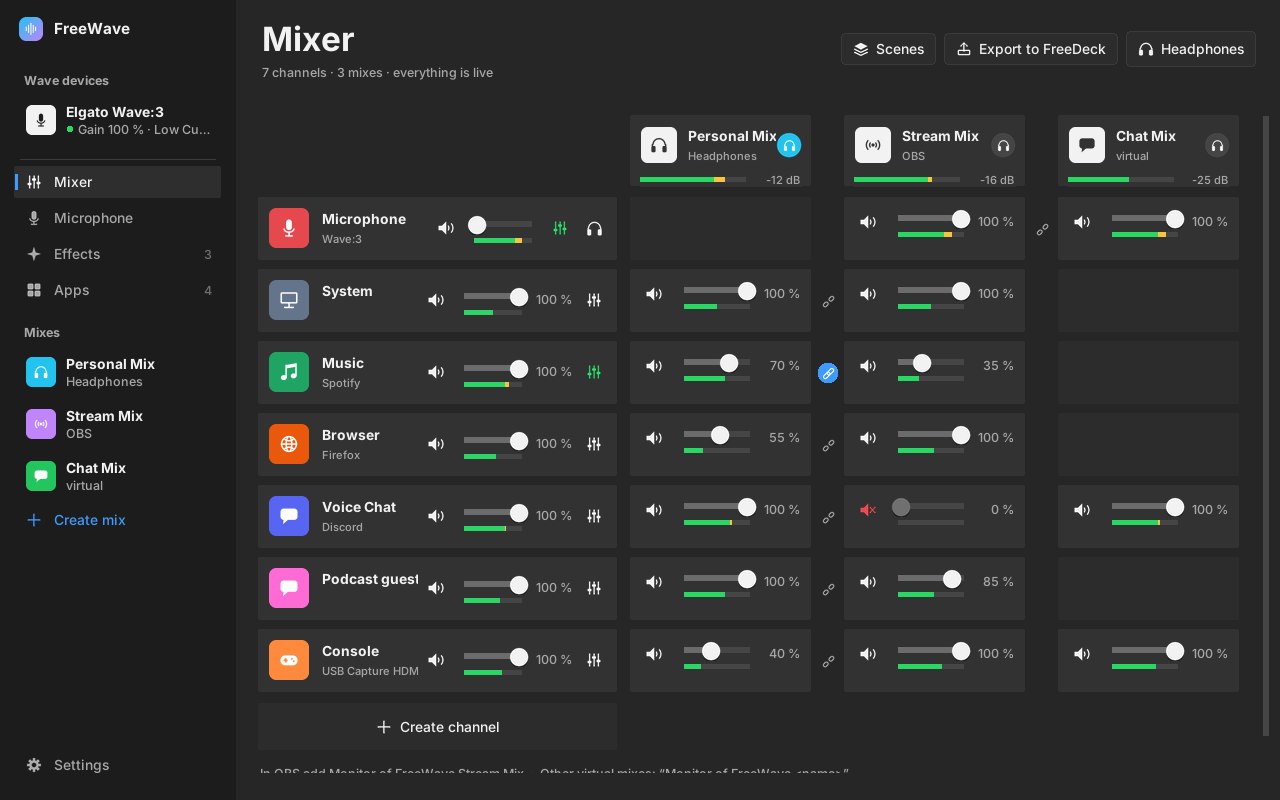
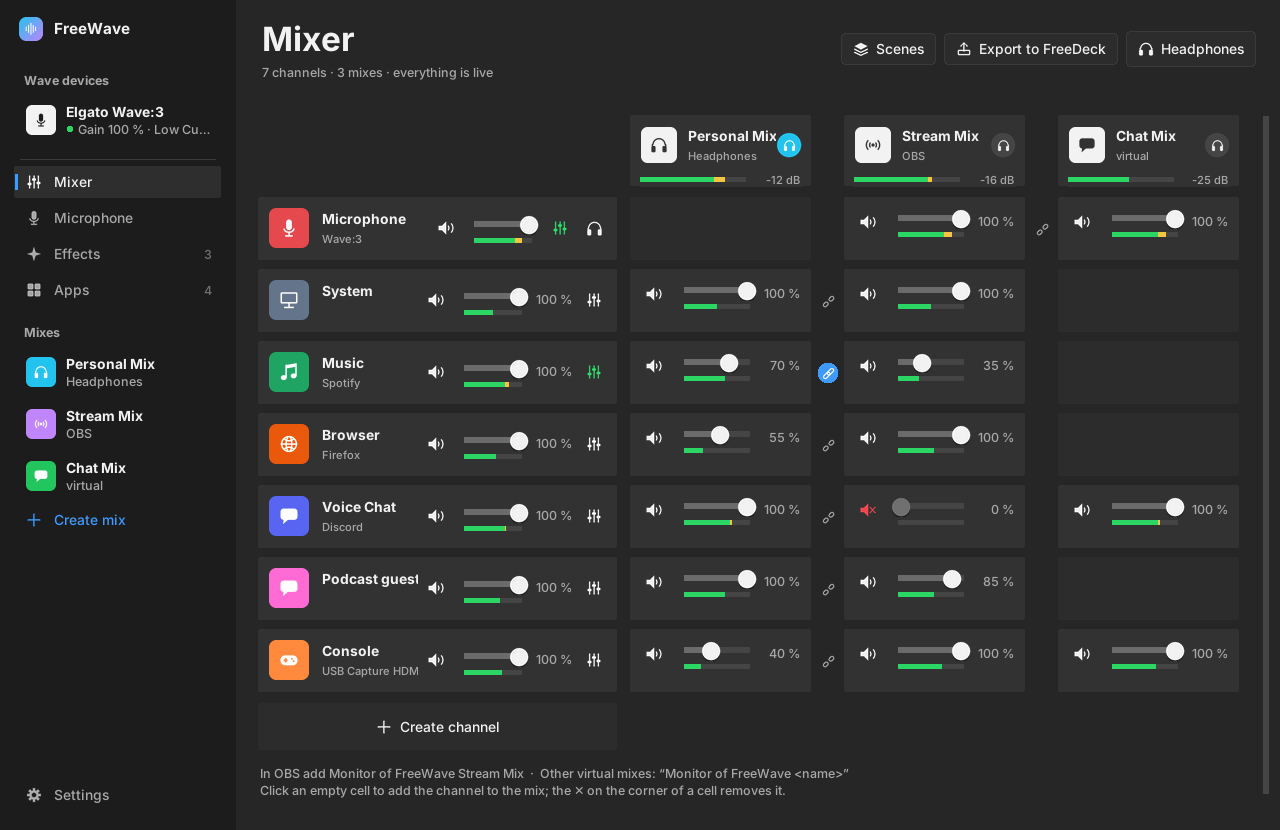
Docs screenshots: mic slider at full volume, OBS hint fully visible, background page shows 'saved'
Only the screenshot generator and the generated images change:
- FreeWave mixer: the mic's own source gets a volume in the demo data, so its slider is no
  longer at 0; the window is 30 px taller so the hint below the channels is not cut off
- FreeDeck background page: status shows 'saved' instead of the transient 'Saving…'

Claude-Session: https://claude.ai/code/session_01ScnBRq2ic6dcuKmkjMBFsu

diff --git a/docs/screenshots.py b/docs/screenshots.py
@@ -317,6 +317,10 @@ def shot_background(tmp, root, app, _doc):
     app.goto_page(pid)
     app.select(("key", 2, 0))
     pump(root, 1.5)
+    app.save_now()  # Status wie nach dem automatischen Speichern statt „Speichern …“ im Bild
+    from freestream.i18n import _
+    app.status(_("saved"))
+    pump(root, 0.3)
     grab(root, "freedeck-background.png")
     dlg = BackgroundDialog(root, app, pid)
     pump(root, 1)
@@ -401,12 +405,13 @@ def shot_freewave(tmp):
     fake.inputs["10"] = {"index": "10", "sink": "1", "volume": 80, "mute": False,
                          "props": {"application.name": "Discord", "application.process.binary": "discord"}}
     blocks = fake.blocks
+    own_sources = []  # Quellen, die FreeWave selbst anlegt (z. B. die Effektkette des Mikrofons)
 
     def blocks_with_sources(what):
         if what == "sources":
             return [{"name": "alsa_input.usb-Elgato_Wave_3", "description": "Elgato Wave:3 Mono"},
                     {"name": "alsa_input.usb-capture", "description": "USB Capture HDMI – Digital Stereo"},
-                    {"name": "alsa_input.pci-analog", "description": "Built-in Audio Analog Stereo"}]
+                    {"name": "alsa_input.pci-analog", "description": "Built-in Audio Analog Stereo"}] + own_sources
         return blocks(what)
     system._pactl_blocks = blocks_with_sources
     system.have = lambda c: True
@@ -419,6 +424,9 @@ def shot_freewave(tmp):
     from freestream.waveui import WaveWindow
     host = WaveHost()
     host.start()
+    known = {b["name"] for b in blocks_with_sources("sources")}
+    own_sources.extend({"name": n, "description": n, "volume": 100}  # Mikrofon-Regler voll wie die anderen
+                       for n in set((host.mixer._state().get("sources") or {}).values()) - known)
     host.tick()
     for cid, mix, vol in (("music", "stream", 35), ("music", "monitor", 70), ("podcast", "stream", 85),
                           ("voice", "stream", 0), ("browser", "monitor", 55), ("capture", "monitor", 40)):
@@ -434,6 +442,7 @@ def shot_freewave(tmp):
         return types.SimpleNamespace(level=demo.get(key, .5) if "Wave" in device or key else .6, stop=lambda: None)
     root = tk.Tk(className="freewave")
     win = WaveWindow(root, host, tray=False, level_factory=fake_level)
+    root.geometry("1280x830")  # etwas höher, damit der OBS-Hinweis unter den Kanälen ganz ins Bild passt
     pump(root, 3)
     for strip in win.strips.values():  # ✕ nur beim Überfahren – der Mauszeiger von Xvfb steht mitten im Bild
         for part in strip.values():
